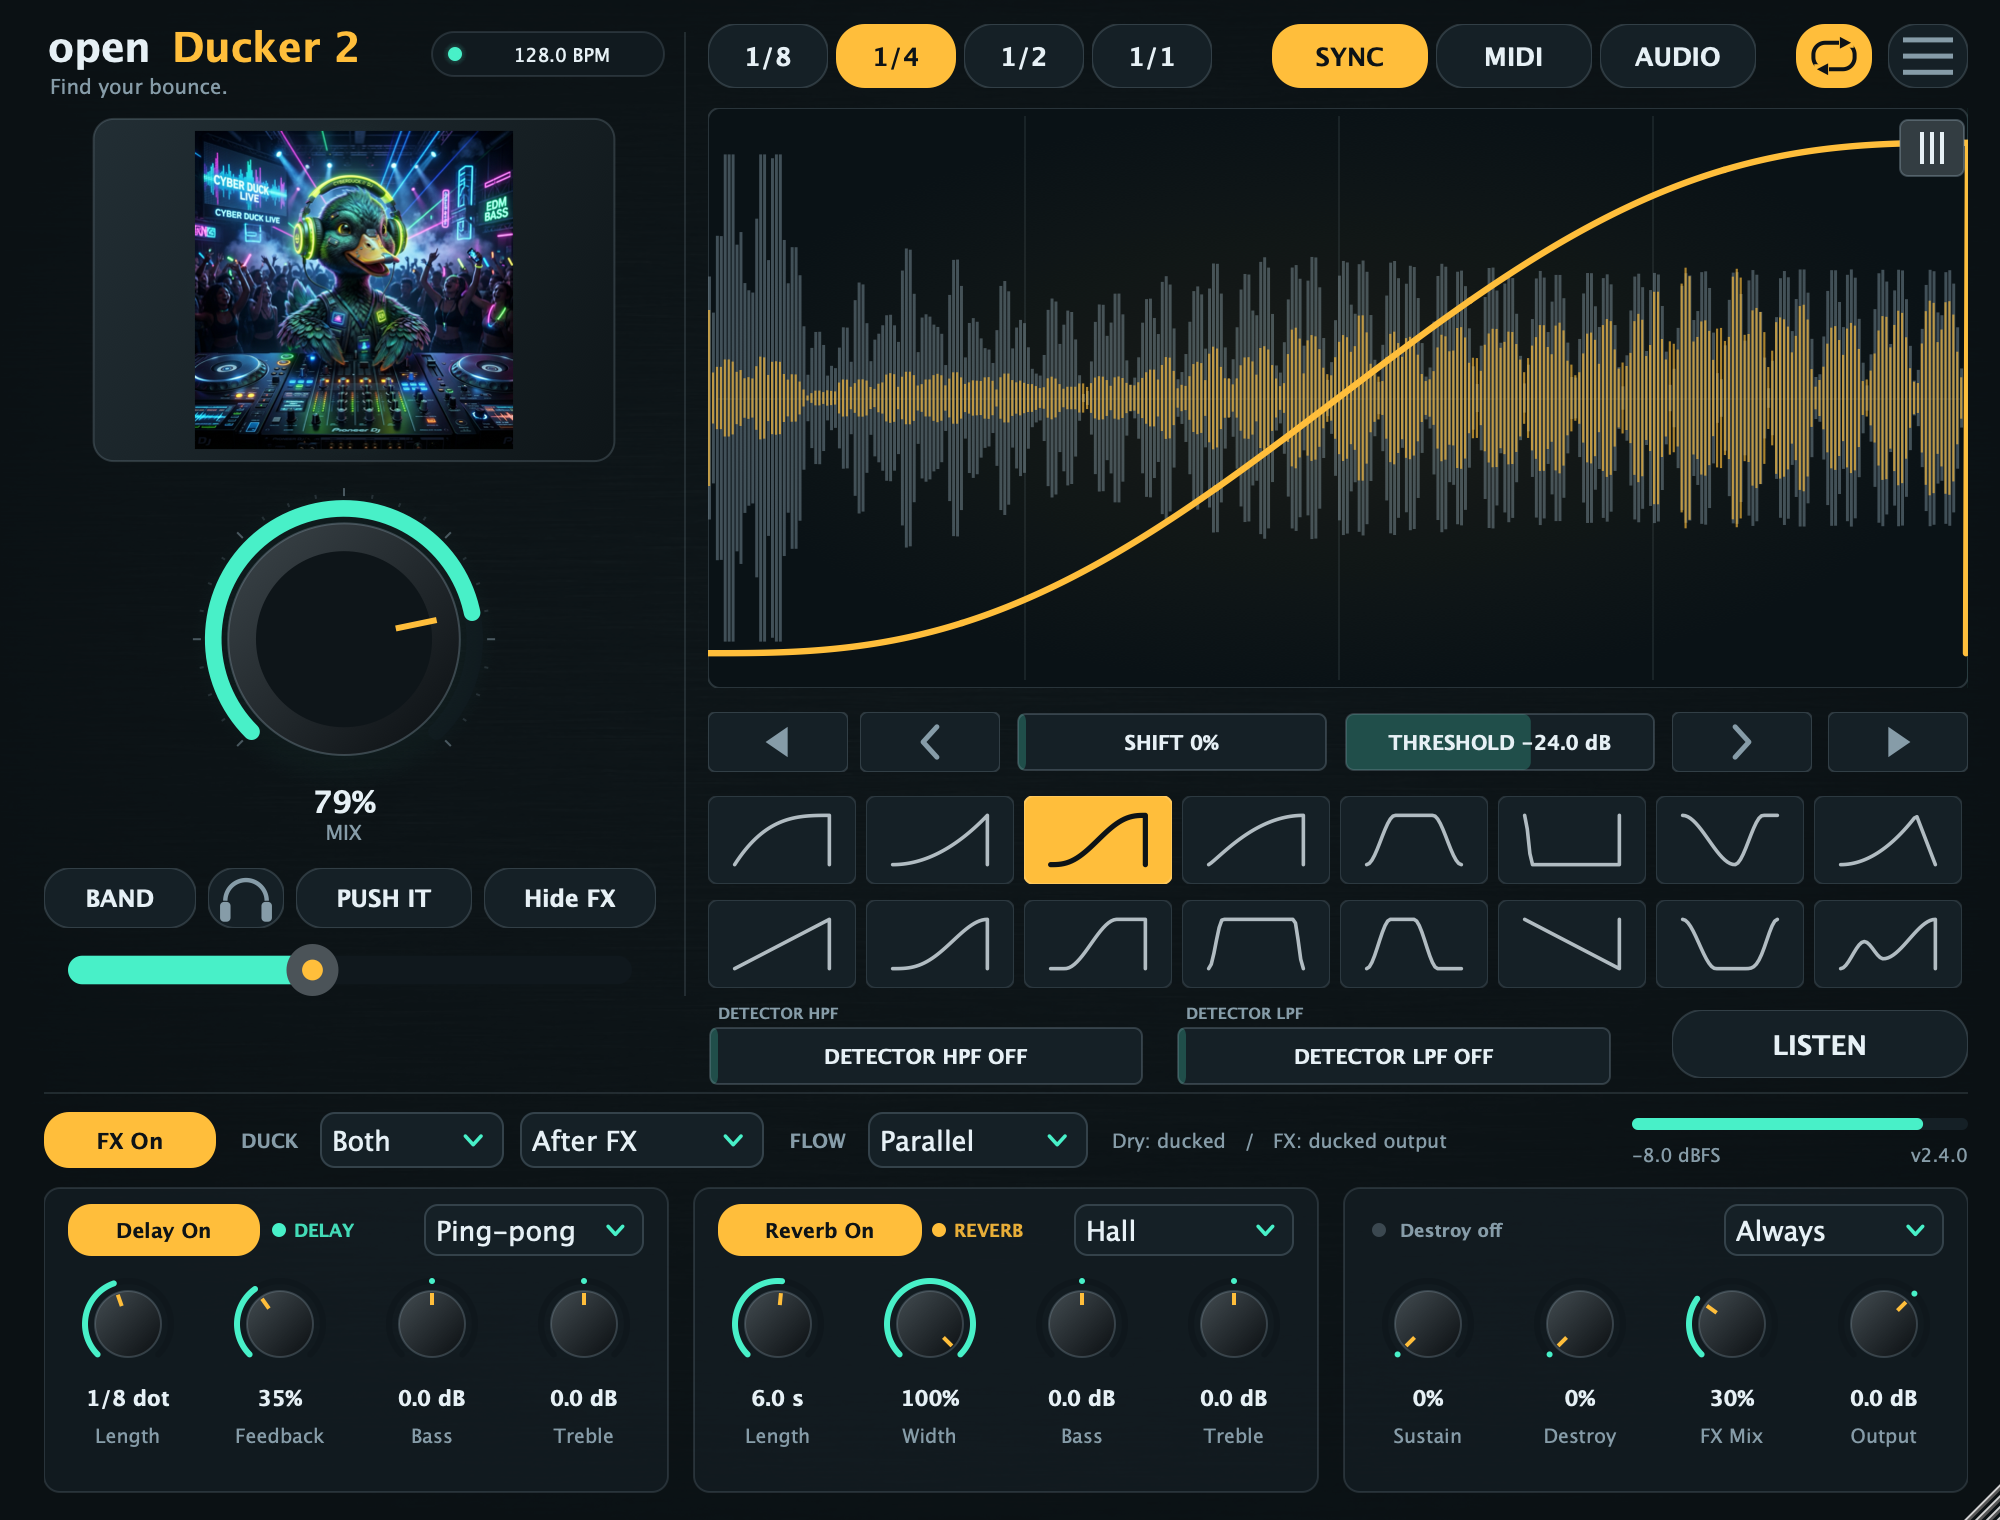
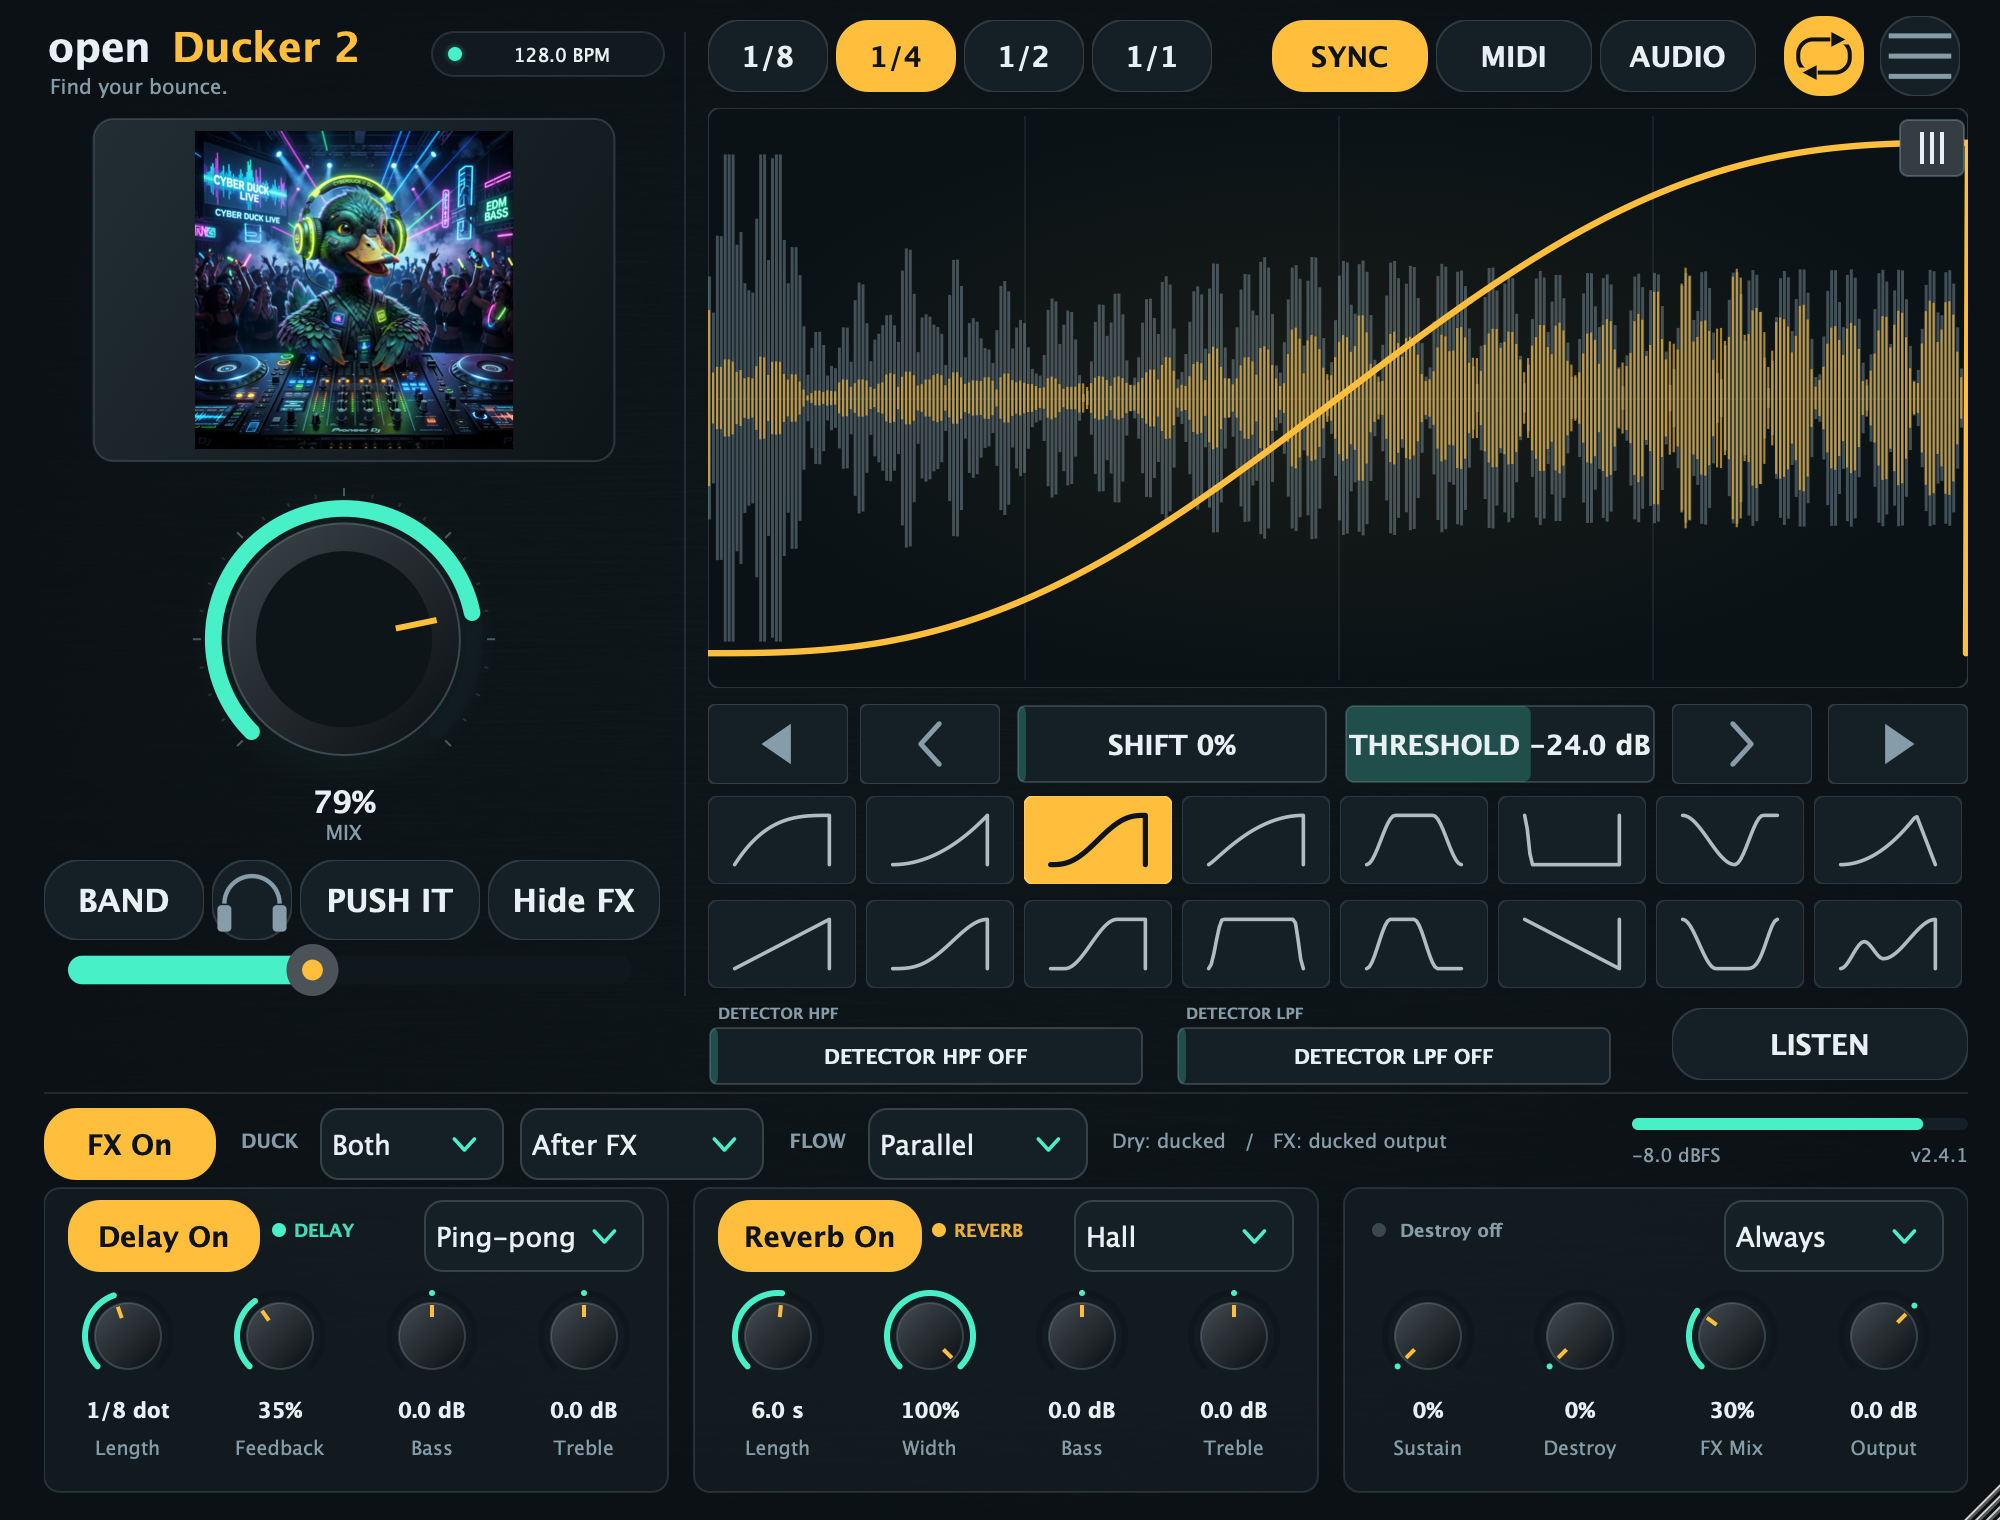
Refresh openDucker editor controls

diff --git a/Source/Plugin/PluginEditor.cpp b/Source/Plugin/PluginEditor.cpp
@@ -574,26 +574,26 @@ void DuckerEditor::resized() {
 
     // Left column: DJ Duck is at y=56..240, Mix knob at y=244..424, Band & FX toggle section at y=430..498
     mix.setBounds(area(70, 244, 204, 180));
-    bandButton.setBounds(area(22, 434, 76, 30));
-    solo.setBounds(area(104, 434, 38, 30));
-    pushItButton.setBounds(area(148, 434, 88, 30));
-    effectsToggle.setBounds(area(242, 434, 86, 30));
+    bandButton.setBounds(area(22, 430, 80, 40));
+    solo.setBounds(area(106, 430, 40, 40));
+    pushItButton.setBounds(area(150, 430, 90, 40));
+    effectsToggle.setBounds(area(244, 430, 86, 40));
     band.setBounds(area(22, 472, 306, 26));
 
     // Right column
-    for(size_t i = 0; i < rateButtons.size(); ++i) rateButtons[i].setBounds(area(354 + static_cast<float>(i) * 64, 12, 60, 32));
-    for(size_t i = 0; i < triggerButtons.size(); ++i) triggerButtons[i].setBounds(area(636 + static_cast<float>(i) * 82, 12, 78, 32));
-    retrigger.setBounds(area(898, 12, 38, 32));
-    menu.setBounds(area(944, 12, 40, 32));
+    for(size_t i = 0; i < rateButtons.size(); ++i) rateButtons[i].setBounds(area(354 + static_cast<float>(i) * 64, 10, 60, 36));
+    for(size_t i = 0; i < triggerButtons.size(); ++i) triggerButtons[i].setBounds(area(636 + static_cast<float>(i) * 82, 10, 78, 36));
+    retrigger.setBounds(area(892, 8, 40, 40));
+    menu.setBounds(area(940, 8, 40, 40));
 
     display.setBounds(area(354, 54, 630, 290));
 
-    previousBank.setBounds(area(354, 356, 70, 30));
-    previous.setBounds(area(430, 356, 70, 30));
-    shift.setBounds(area(508, 356, 156, 30));
-    threshold.setBounds(area(672, 356, 156, 30));
-    next.setBounds(area(836, 356, 70, 30));
-    nextBank.setBounds(area(914, 356, 70, 30));
+    previousBank.setBounds(area(354, 352, 70, 40));
+    previous.setBounds(area(430, 352, 70, 40));
+    shift.setBounds(area(508, 352, 156, 40));
+    threshold.setBounds(area(672, 352, 156, 40));
+    next.setBounds(area(836, 352, 70, 40));
+    nextBank.setBounds(area(914, 352, 70, 40));
 
     for(size_t i = 0; i < curveButtons.size(); ++i)
         curveButtons[i]->setBounds(area(354 + static_cast<float>(i % 8) * 79, i < 8 ? 398 : 450, 74, 44));
@@ -602,7 +602,7 @@ void DuckerEditor::resized() {
     detectorHpf.setBounds(area(354, 513, 218, 30));
     detectorLpfLabel.setBounds(area(588, 500, 218, 13));
     detectorLpf.setBounds(area(588, 513, 218, 30));
-    detectorMonitorButton.setBounds(area(836, 505, 148, 34));
+    detectorMonitorButton.setBounds(area(836, 504, 148, 36));
 
     effectsPanel.setBounds(area(22, 552, 962, 198));
 }

diff --git a/Source/Plugin/EffectsPanel.cpp b/Source/Plugin/EffectsPanel.cpp
@@ -110,21 +110,21 @@ void EffectsPanel::resized() {
     const auto area = [s](float x, float y, float w, float h) {
         return juce::Rectangle<float>(x * s, y * s, w * s, h * s).toNearestInt();
     };
-    switches[0].setBounds(area(0, 4, 86, 28));
-    choices[0].setBounds(area(138, 4, 92, 28));
-    choices[1].setBounds(area(238, 4, 122, 28));
-    choices[4].setBounds(area(412, 4, 110, 28));
+    switches[0].setBounds(area(0, 2, 86, 36));
+    choices[0].setBounds(area(138, 2, 92, 36));
+    choices[1].setBounds(area(238, 2, 122, 36));
+    choices[4].setBounds(area(412, 2, 110, 36));
 
-    switches[1].setBounds(area(12, 50, 96, 26));
-    choices[2].setBounds(area(190, 50, 110, 26));
-    switches[2].setBounds(area(337, 50, 102, 26));
-    choices[3].setBounds(area(515, 50, 110, 26));
-    choices[5].setBounds(area(840, 50, 110, 26));
+    switches[1].setBounds(area(12, 48, 96, 36));
+    choices[2].setBounds(area(190, 48, 110, 36));
+    switches[2].setBounds(area(337, 48, 102, 36));
+    choices[3].setBounds(area(515, 48, 110, 36));
+    choices[5].setBounds(area(840, 48, 110, 36));
 
     for(int i = 0; i < 4; ++i) {
-        knobs[static_cast<size_t>(i)].setBounds(area(4 + static_cast<float>(i) * 76, 82, 76, 104));
-        knobs[static_cast<size_t>(i + 4)].setBounds(area(329 + static_cast<float>(i) * 76, 82, 76, 104));
-        knobs[static_cast<size_t>(i + 8)].setBounds(area(654 + static_cast<float>(i) * 76, 82, 76, 104));
+        knobs[static_cast<size_t>(i)].setBounds(area(4 + static_cast<float>(i) * 76, 88, 76, 104));
+        knobs[static_cast<size_t>(i + 4)].setBounds(area(329 + static_cast<float>(i) * 76, 88, 76, 104));
+        knobs[static_cast<size_t>(i + 8)].setBounds(area(654 + static_cast<float>(i) * 76, 88, 76, 104));
     }
 }
 

diff --git a/docs/RELEASE_NOTES.md b/docs/RELEASE_NOTES.md
@@ -1,10 +1,9 @@
-openDucker 2.1.0 restores the full openDucker FX rack into the openDucker 2 interface.
+openDucker 2.4.1 makes the native editor controls easier to read and use.
 
-- **Restored FX chain:** Tempo-synced Delay (`1/32` to `1 bar`, Mono / Ping-pong, Feedback, Bass & Treble EQ shelves), modulated stereo Reverb (`Room`, `Hall`, `Plate`, 0.2–25 s decay, Width, Bass & Treble EQ shelves), Sustain compression, Destroy bitcrush/stutter/drive (`Tail` / `Always`), FX Mix, and Output trim (−24 to +12 dB) with live peak meter.
-- **Flexible ducking & FX routing:** Duck `Dry`, `Wet`, or `Both` (`Before FX` or `After FX`), and run Delay + Reverb in `Serial` or `Parallel`.
-- **Collapsible 3-card FX rack:** Integrated across the bottom of the 1000 px wide openDucker 2 layout with a `Hide FX` / `Show FX` toggle button alongside the BAND controls.
-- **Full v2.0.0 ducker capabilities preserved:** 16 curves, draggable slope handle, dual input/output waveform display, SYNC / MIDI / AUDIO triggers with sidechain support, Retrigger, Shift, BAND Linkwitz-Riley low-end split with solo, and the animated DJ Duck booth.
+- Text buttons and toggles are at least 36 px high and use 14 px text. Icon controls have 40 px targets and descriptive tooltips.
+- Curve navigation keeps its compact arrow design with tooltips that explain the single-curve and row navigation actions.
+- The FX panel controls have more room, and the updated native screenshots show the full editor without clipping.
 
-v2.0.0 sessions recall cleanly with FX disabled by default so existing sessions sound identical on upgrade.
+Audio processing, parameter IDs, presets, automation, MIDI behavior, and session compatibility are unchanged.
 
-Install the macOS universal VST3/AU or Windows x64 VST3 ZIP, or update through OpenVST Manager. Close your DAW before replacing the plugin and rescan afterward. SHA256SUMS.txt covers both archives. macOS bundles are ad-hoc signed; Windows binaries have no publisher certificate. No commercial-DAW listening session is claimed; see docs/VERIFICATION.md for executed checks.
+Install the macOS universal VST3/AU or Windows x64 VST3 ZIP, or update through OpenVST Manager. Close your DAW before replacing the plugin and rescan afterward. SHA256SUMS.txt covers both archives. macOS bundles are ad-hoc signed; Windows binaries have no publisher certificate. See docs/VERIFICATION.md for the existing verification coverage.

diff --git a/docs/SCREENSHOTS.md b/docs/SCREENSHOTS.md
@@ -1,6 +1,6 @@
 # Native UI screenshots
 
-The three images in `docs/screenshots/` were captured on macOS on 2026-11-16 from the actual v2.4.0 JUCE processor and editor test harness (`Tools/PluginTests.cpp`), rendered at 2x (2000 × 1520) from the 1000 × 760 native editor with the FX panel expanded. Each is preceded by rendering a synthetic kick and bass through the processor so the display and output meter show real signal peaks. The detector filter row is visible above the FX rack:
+The three images in `docs/screenshots/` were captured on macOS on 2026-11-17 from the actual v2.4.1 JUCE processor and editor test harness (`Tools/PluginTests.cpp`), rendered at 2x (2000 × 1520) from the 1000 × 760 native editor with the FX panel expanded. Each is preceded by rendering a synthetic kick and bass through the processor so the display and output meter show real signal peaks. The detector filter row is visible above the FX rack:
 
 - `openDucker-sync.png`: Sync mode at 128 BPM, 1/4 length, Classic S curve, Mix 79%, FX On.
 - `openDucker-audio.png`: Audio trigger, Trapezoid curve, slope length 72%, FX On.

diff --git a/README.md b/README.md
@@ -8,7 +8,7 @@
 
 ![openDucker 2 in Sync mode](docs/screenshots/openDucker-sync.png)
 
-*Captured from the running v2.4.0 native editor. [Capture details](docs/SCREENSHOTS.md).*
+*Captured from the running v2.4.1 native editor. [Capture details](docs/SCREENSHOTS.md).*
 
 ## What's in v2.1
 
